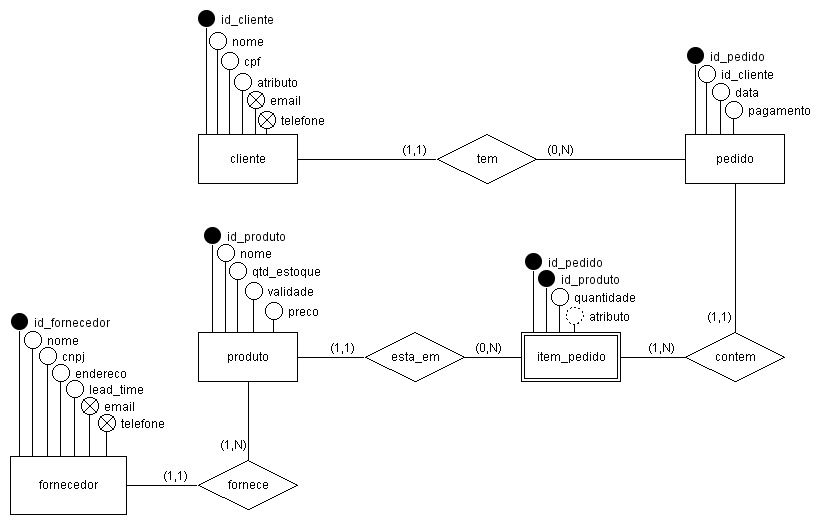
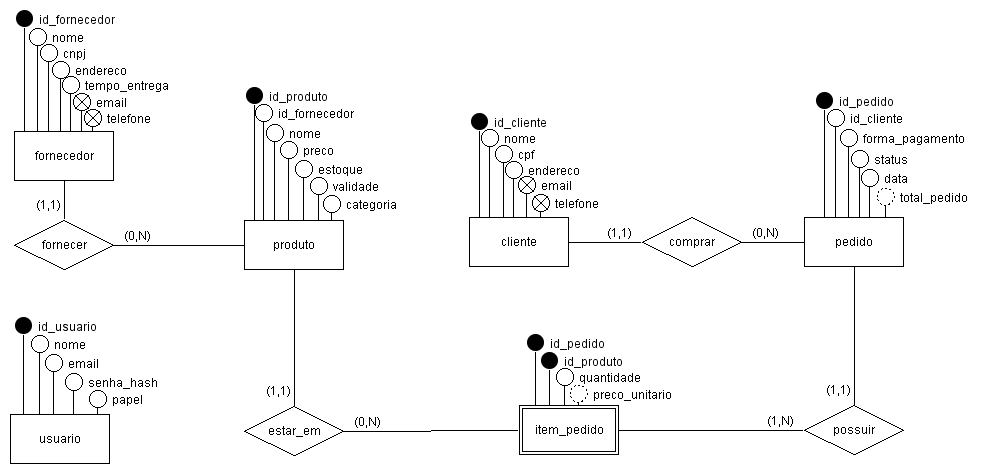
feat: DER atualizado + fix: relatorio/schema/model seguindo o padrão do novo DER

diff --git a/src/models/pedido.model.ts b/src/models/pedido.model.ts
@@ -7,7 +7,6 @@ export interface Pedido {
   forma_pagamento: FormaPagamento;
   status: StatusPedido;
     total_pedido: number;
-    pago: number;
     criado_em: string;
     atualizado_em: string;
 }
@@ -17,7 +16,6 @@ export interface ItemPedido {
     id_pedido: number;
     id_produto: number;
     quantidade: number;
-    preco_unitario: number;
     subtotal: number;
 }
 
@@ -29,5 +27,5 @@ export interface EntradaCriarPedido {
   id_cliente: number;
   forma_pagamento: FormaPagamento;
   status?: StatusPedido;
-  itens: Array<{ id_produto: number; quantidade: number; preco_unitario?: number; subtotal?: number }>;
+  itens: Array<{ id_produto: number; quantidade: number; preco_unitario?: number}>;
 }

diff --git a/src/models/produto.model.ts b/src/models/produto.model.ts
@@ -4,16 +4,12 @@ export interface Produto {
     preco: number;
     estoque: number;
     validade: string | null;
+    categoria: string | null;
     id_fornecedor: number | null;
     criado_em: string;
     atualizado_em: string;
 }
 
-export interface CategoriaProduto {
-    id: number;
-    id_produto: number;
-    categoria: string;
-}
 
 export type EntradaCriarProduto = Omit<Produto, "id_produto" | "criado_em" | "atualizado_em">;
 export type EntradaAtualizarProduto = Partial<EntradaCriarProduto>;

diff --git a/docs/relatorios/entrevista01.md b/docs/relatorios/entrevista01.md
@@ -26,7 +26,7 @@ Atualmente, o controle de vendas é feito manualmente em cadernos, o que ocasion
 - Ausência de relatórios para apoiar decisões de compra e reposição de estoque  
 - Falta de histórico consolidado de clientes e produtos  
 
-## 3. Objetivo
+## 4. Objetivo
 O sistema tem como proposta:
 
 - Automatizar o processo de registro de pedidos e vendas  
@@ -35,14 +35,12 @@ O sistema tem como proposta:
 - Melhorar a eficiência operacional e o atendimento ao cliente  
 - Fornecer relatórios gerenciais para apoiar a tomada de decisão  
 - Garantir segurança e integridade dos dados
-  
-4. Definição de Requisitos do Usuário 
 
-Necessita-se de um sistema de controle comercial, onde constam clientes, produtos e pedidos. 
+## 5. Definição de Requisitos do Usuário 
 
- 
+Necessita-se de um sistema de controle comercial, onde constam clientes, produtos, fornecedores e pedidos. 
 
-4.1 Necessidades do usuário 
+### 5.1 Necessidades do usuário 
 
 O sistema deverá atender às necessidades operacionais de uma loja de bebidas, permitindo o controle eficiente das vendas e do relacionamento com clientes. Para isso, o sistema deverá possibilitar: 
 
@@ -62,7 +60,7 @@ O sistema deverá atender às necessidades operacionais de uma loja de bebidas, 
 
    Registro da forma de pagamento (dinheiro, cartão, pix, etc.); 
 
-4.2 Problemas atuais 
+### 5.2 Problemas atuais 
 
 Atualmente, o controle de vendas e pedidos é realizado de forma manual, utilizando cadernos ou anotações informais. Esse método apresenta diversas limitações, tais como: 
 
@@ -80,7 +78,7 @@ Atualmente, o controle de vendas e pedidos é realizado de forma manual, utiliza
 
 Esses problemas impactam diretamente a eficiência do negócio e a qualidade do atendimento ao cliente. 
 
-4.3 Objetivos do sistema 
+### 5.3 Objetivos do sistema 
 
 O sistema tem como principal objetivo automatizar o processo de gerenciamento de pedidos em uma loja de bebidas, proporcionando maior controle, organização e confiabilidade das informações. Entre os principais objetivos, destacam-se: 
 
@@ -98,8 +96,9 @@ O sistema tem como principal objetivo automatizar o processo de gerenciamento de
 
   Garantir maior segurança e integridade das informações; 
 
-Dessa forma, o sistema contribuirá para tornar o processo de vendas mais eficiente, moderno e confiável. 
-## 4. Escopo
+Dessa forma, o sistema contribuirá para tornar o processo de vendas mais eficiente, moderno e confiável.
+
+## 6. Escopo
 
 ### Cadastro de Clientes
 - Nome completo  
@@ -133,11 +132,11 @@ Dessa forma, o sistema contribuirá para tornar o processo de vendas mais eficie
 - Comparativo de vendas por categoria de produto  
 - Histórico de compras por cliente  
 
-## 5. Especificação de Requisitos
+## 7. Especificação de Requisitos
 
 Especificação de requisitos do sistema 
 
-## 5.1 Requisitos Funcionais 
+### 7.1 Requisitos Funcionais 
 
    RF01 – O sistema deve permitir o cadastro de clientes; 
 
@@ -165,7 +164,7 @@ Especificação de requisitos do sistema
 
    RF13 – O sistema deve permitir o login de usuários autorizados;  
 
-## 5.2 Regras de Negócio 
+### 7.2 Regras de Negócio 
 
    RN01 – O sistema não deve permitir a venda de produtos sem estoque disponível; 
 
@@ -181,40 +180,38 @@ Especificação de requisitos do sistema
 
    RN07 – O sistema deve registrar a forma de pagamento de cada pedido;  
 
-## 4.3 Requisitos Não Funcionais 
+### 7.3 Requisitos Não Funcionais 
 
-    RNF01 – O sistema deve responder às ações do usuário em até 5 segundos;  
+   RNF01 – O sistema deve responder às ações do usuário em até 5 segundos;  
 
-## Usabilidade 
+#### Usabilidade 
 
    RNF02 – O sistema deve possuir interface simples e intuitiva; 
 
   RNF03 – O usuário deve ser capaz de utilizar o sistema após treinamento básico;  
 
-## Segurança 
-
-   RNF04 – O sistema deve exigir login e senha para acesso; 
+#### Segurança
 
    RNF05 – O sistema deve garantir que apenas usuários autorizados tenham acesso às informações;  
 
-## Confiabilidade 
+#### Confiabilidade 
 
   RNF06 – O sistema deve garantir a integridade dos dados armazenados; 
 
    RNF07 – O sistema deve permitir recuperação de dados em caso de falhas;  
 
-## Disponibilidade 
+#### Disponibilidade 
 
    RNF08 – O sistema deve estar disponível durante o horário de funcionamento da loja; 
-    
-## 6. Arquitetura Proposta
+
+## 8. Arquitetura Proposta
 - **Frontend**: Interface web responsiva, acessível em computadores e dispositivos móveis  
 - **Backend**: API REST desenvolvida em linguagem moderna (ex.: Java, Python ou Node.js)  
 - **Banco de Dados**: Relacional (ex.: MySQL ou PostgreSQL) para garantir integridade e consistência  
 - **Segurança**: Autenticação JWT, criptografia de senhas e controle de acesso por perfil  
 - **Infraestrutura**: Hospedagem em servidor local ou nuvem (AWS, Azure, GCP)  
 
-## 7. Benefícios Esperados
+## 9. Benefícios Esperados
 - Redução de erros em pedidos e cálculos financeiros  
 - Maior controle sobre clientes inadimplentes  
 - Organização eficiente do estoque e reposição preventiva  
@@ -223,9 +220,9 @@ Especificação de requisitos do sistema
 - Segurança e confiabilidade dos dados  
 - Escalabilidade para crescimento da loja
 
-## 8. Modelagem de Dados (DER) 
+## 10. Modelagem de Dados (DER) 
 
- 
+ ![Diagrama Entidade-Relacionamento do sistema](../diagramas/der.png)
 
 A modelagem de dados do sistema foi desenvolvida com o objetivo de representar de forma estruturada as informações necessárias para o funcionamento do sistema de pedidos da loja de bebidas. 
 
@@ -233,75 +230,76 @@ O modelo Entidade-Relacionamento (DER) define as principais entidades do sistema
 
 As principais entidades identificadas foram: 
 
-Cliente: responsável por armazenar os dados dos clientes cadastrados no sistema. 
-
-Produto: responsável por armazenar as informações dos produtos disponíveis para venda. 
-
-Pedido: representa as vendas realizadas, associando clientes aos produtos adquiridos. 
-
-ItemPedido: entidade responsável por detalhar os produtos contidos em cada pedido, permitindo registrar múltiplos produtos em um único pedido. 
+- **Cliente**: armazena os dados dos clientes cadastrados no sistema. 
+- **Fornecedor**: armazena os dados dos fornecedores que abastecem os produtos. 
+- **Produto**: armazena as informações dos produtos disponíveis para venda, vinculados a um fornecedor. 
+- **Pedido**: representa as vendas realizadas, associando clientes aos produtos adquiridos. 
+- **ItemPedido**: detalha os produtos contidos em cada pedido (entidade fraca que resolve o N:N entre `Pedido` e `Produto`). 
+- **Usuário**: representa os funcionários autorizados a operar o sistema (atende ao RF13 e RNF04). 
 
 A seguir, são descritas as entidades e seus principais atributos: 
 
-## Cliente: 
+### Cliente 
 
-   id_cliente (chave primária) 
+- `id_cliente` (chave primária) 
+- `nome` 
+- `cpf` (único) 
+- `endereço` 
+- `email` (multivalorado) 
+- `telefone` (multivalorado) 
 
-  nome 
+### Fornecedor 
 
-  CPF 
+- `id_fornecedor` (chave primária) 
+- `nome` 
+- `cnpj` (único) 
+- `endereço` 
+- `tempo_entrega` 
+- `email` (multivalorado) 
+- `telefone` (multivalorado) 
 
-  telefone 
+### Produto 
 
-  endereço 
+- `id_produto` (chave primária) 
+- `nome` 
+- `estoque` 
+- `validade` 
+- `preço` 
+- `id_fornecedor` (chave estrangeira → Fornecedor) 
+- `categoria` 
 
-   email 
+### Pedido 
 
-## Produto: 
+- `id_pedido` (chave primária) 
+- `id_cliente` (chave estrangeira → Cliente) 
+- `data_pedido` 
+- `valor_total` (derivado) 
+- `forma_pagamento` (DINHEIRO, CARTAO, PIX, FIADO) 
+- `status` (PENDENTE, PAGO, CANCELADO) 
 
-  id_produto (chave primária) 
+### ItemPedido 
 
-  nome 
+- `id_pedido` (chave estrangeira → Pedido, parte da PK composta) 
+- `id_produto` (chave estrangeira → Produto, parte da PK composta) 
+- `quantidade` 
+- `preço_unitário` (congelado no momento da venda)  
 
-  quantidade_estoque 
+### Usuário 
 
-   validade 
+- `id_usuario` (chave primária) 
+- `nome` 
+- `email` (único) 
+- `senha_hash` 
+- `papel` (FUNCIONARIO, ADMIN) 
 
-  preço 
+### Relacionamentos 
 
-## Pedido: 
+- **Cliente (1,1) — tem — (0,N) Pedido**: um cliente pode realizar vários pedidos; cada pedido pertence a um único cliente. 
+- **Pedido (1,1) — contém — (1,N) ItemPedido**: cada pedido possui pelo menos um item. 
+- **Produto (1,1) — está em — (0,N) ItemPedido**: um produto pode aparecer em vários pedidos via `ItemPedido`. 
+- **Fornecedor (1,1) — fornece — (1,N) Produto**: um fornecedor abastece vários produtos; cada produto possui um fornecedor. 
 
-  id_pedido (chave primária) 
+A entidade `ItemPedido` resolve o relacionamento muitos-para-muitos entre `Pedido` e `Produto`. Esse modelo garante flexibilidade, permitindo que um pedido contenha múltiplos produtos e que os dados sejam armazenados de forma consistente. 
 
-  id_cliente (chave estrangeira) 
-
-   data_pedido 
-
-   valor_total 
-
-   forma_pagamento 
-
-## ItemPedido: 
-
-  id_item (chave primária) 
-
-  id_pedido (chave estrangeira) 
-
-   id_produto (chave estrangeira) 
-
-   quantidade 
-
-  subtotal 
-
-## Relacionamentos: 
-
-Um cliente pode realizar vários pedidos (1:N). Um pedido pertence a um único cliente. 
-
-Um pedido pode conter vários produtos (1:N). Um produto pode estar presente em vários pedidos. 
-
-A entidade ItemPedido resolve o relacionamento muitos-para-muitos entre Pedido e Produto. 
-
-Esse modelo garante flexibilidade, permitindo que um pedido contenha múltiplos produtos e que os dados sejam armazenados de forma consistente. 
-
-## 9. Considerações Finais
+## 11. Considerações Finais
 O sistema de pedidos para a loja de bebidas proporcionará maior eficiência operacional, segurança e organização. Além disso, permitirá que gestores tenham informações estratégicas para tomada de decisão, reduzindo falhas e aumentando a competitividade da empresa.
